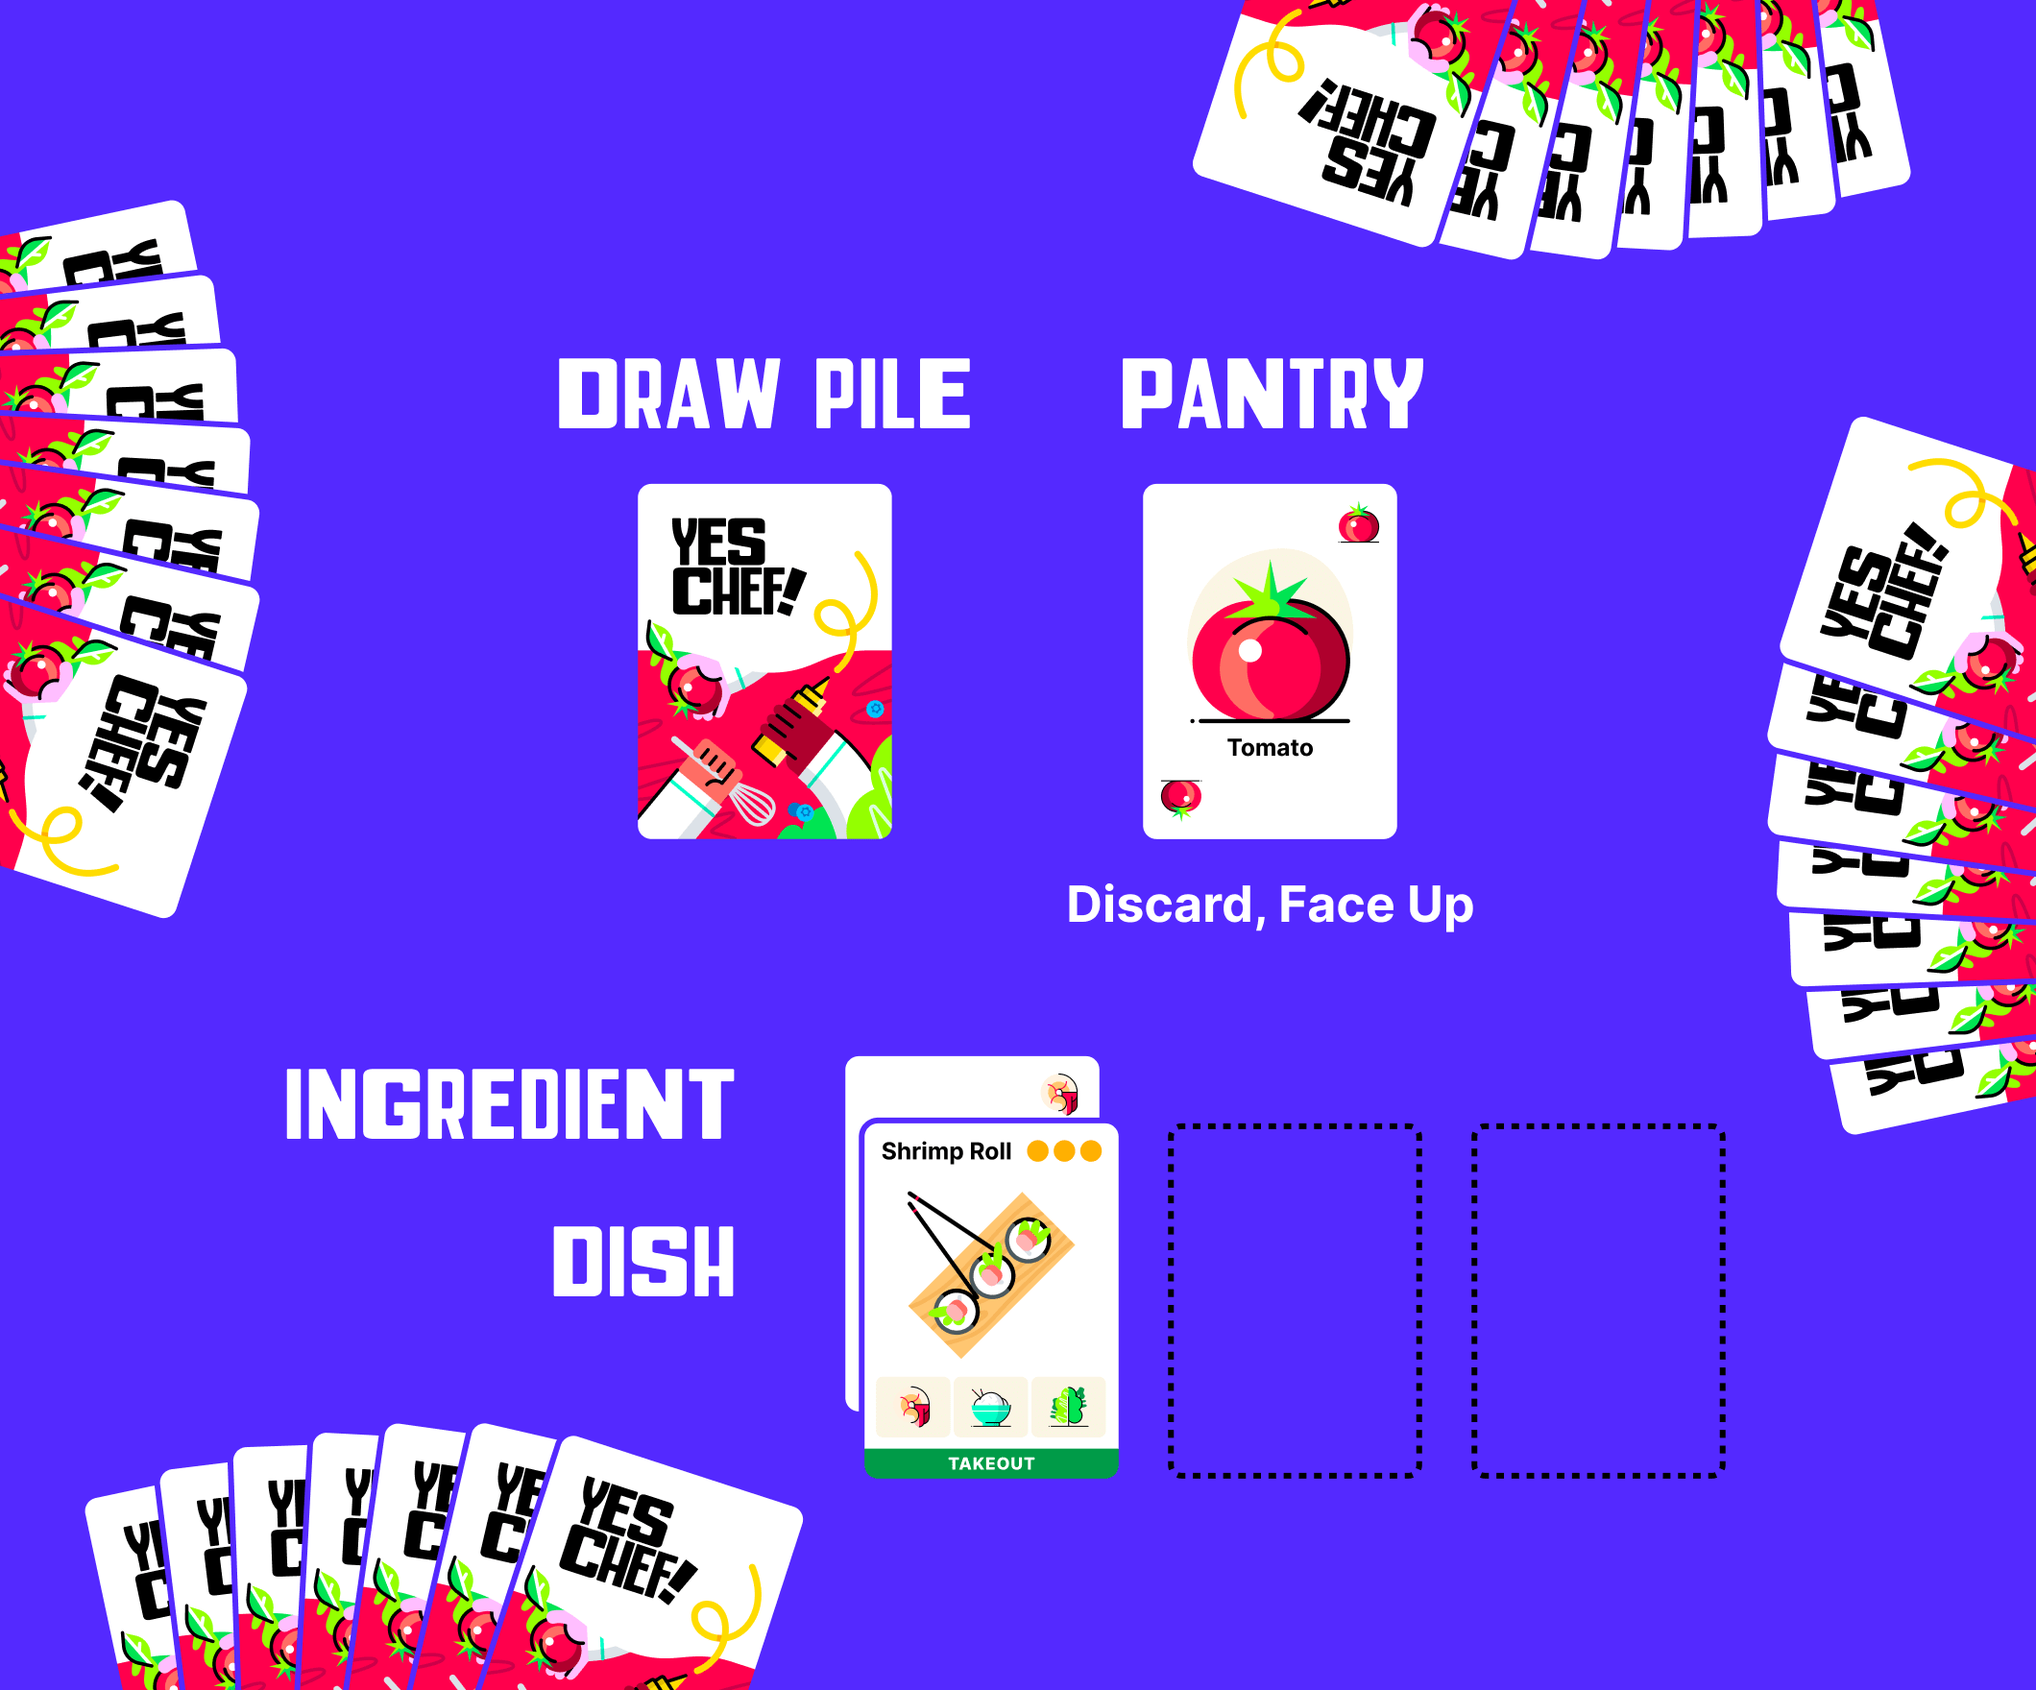
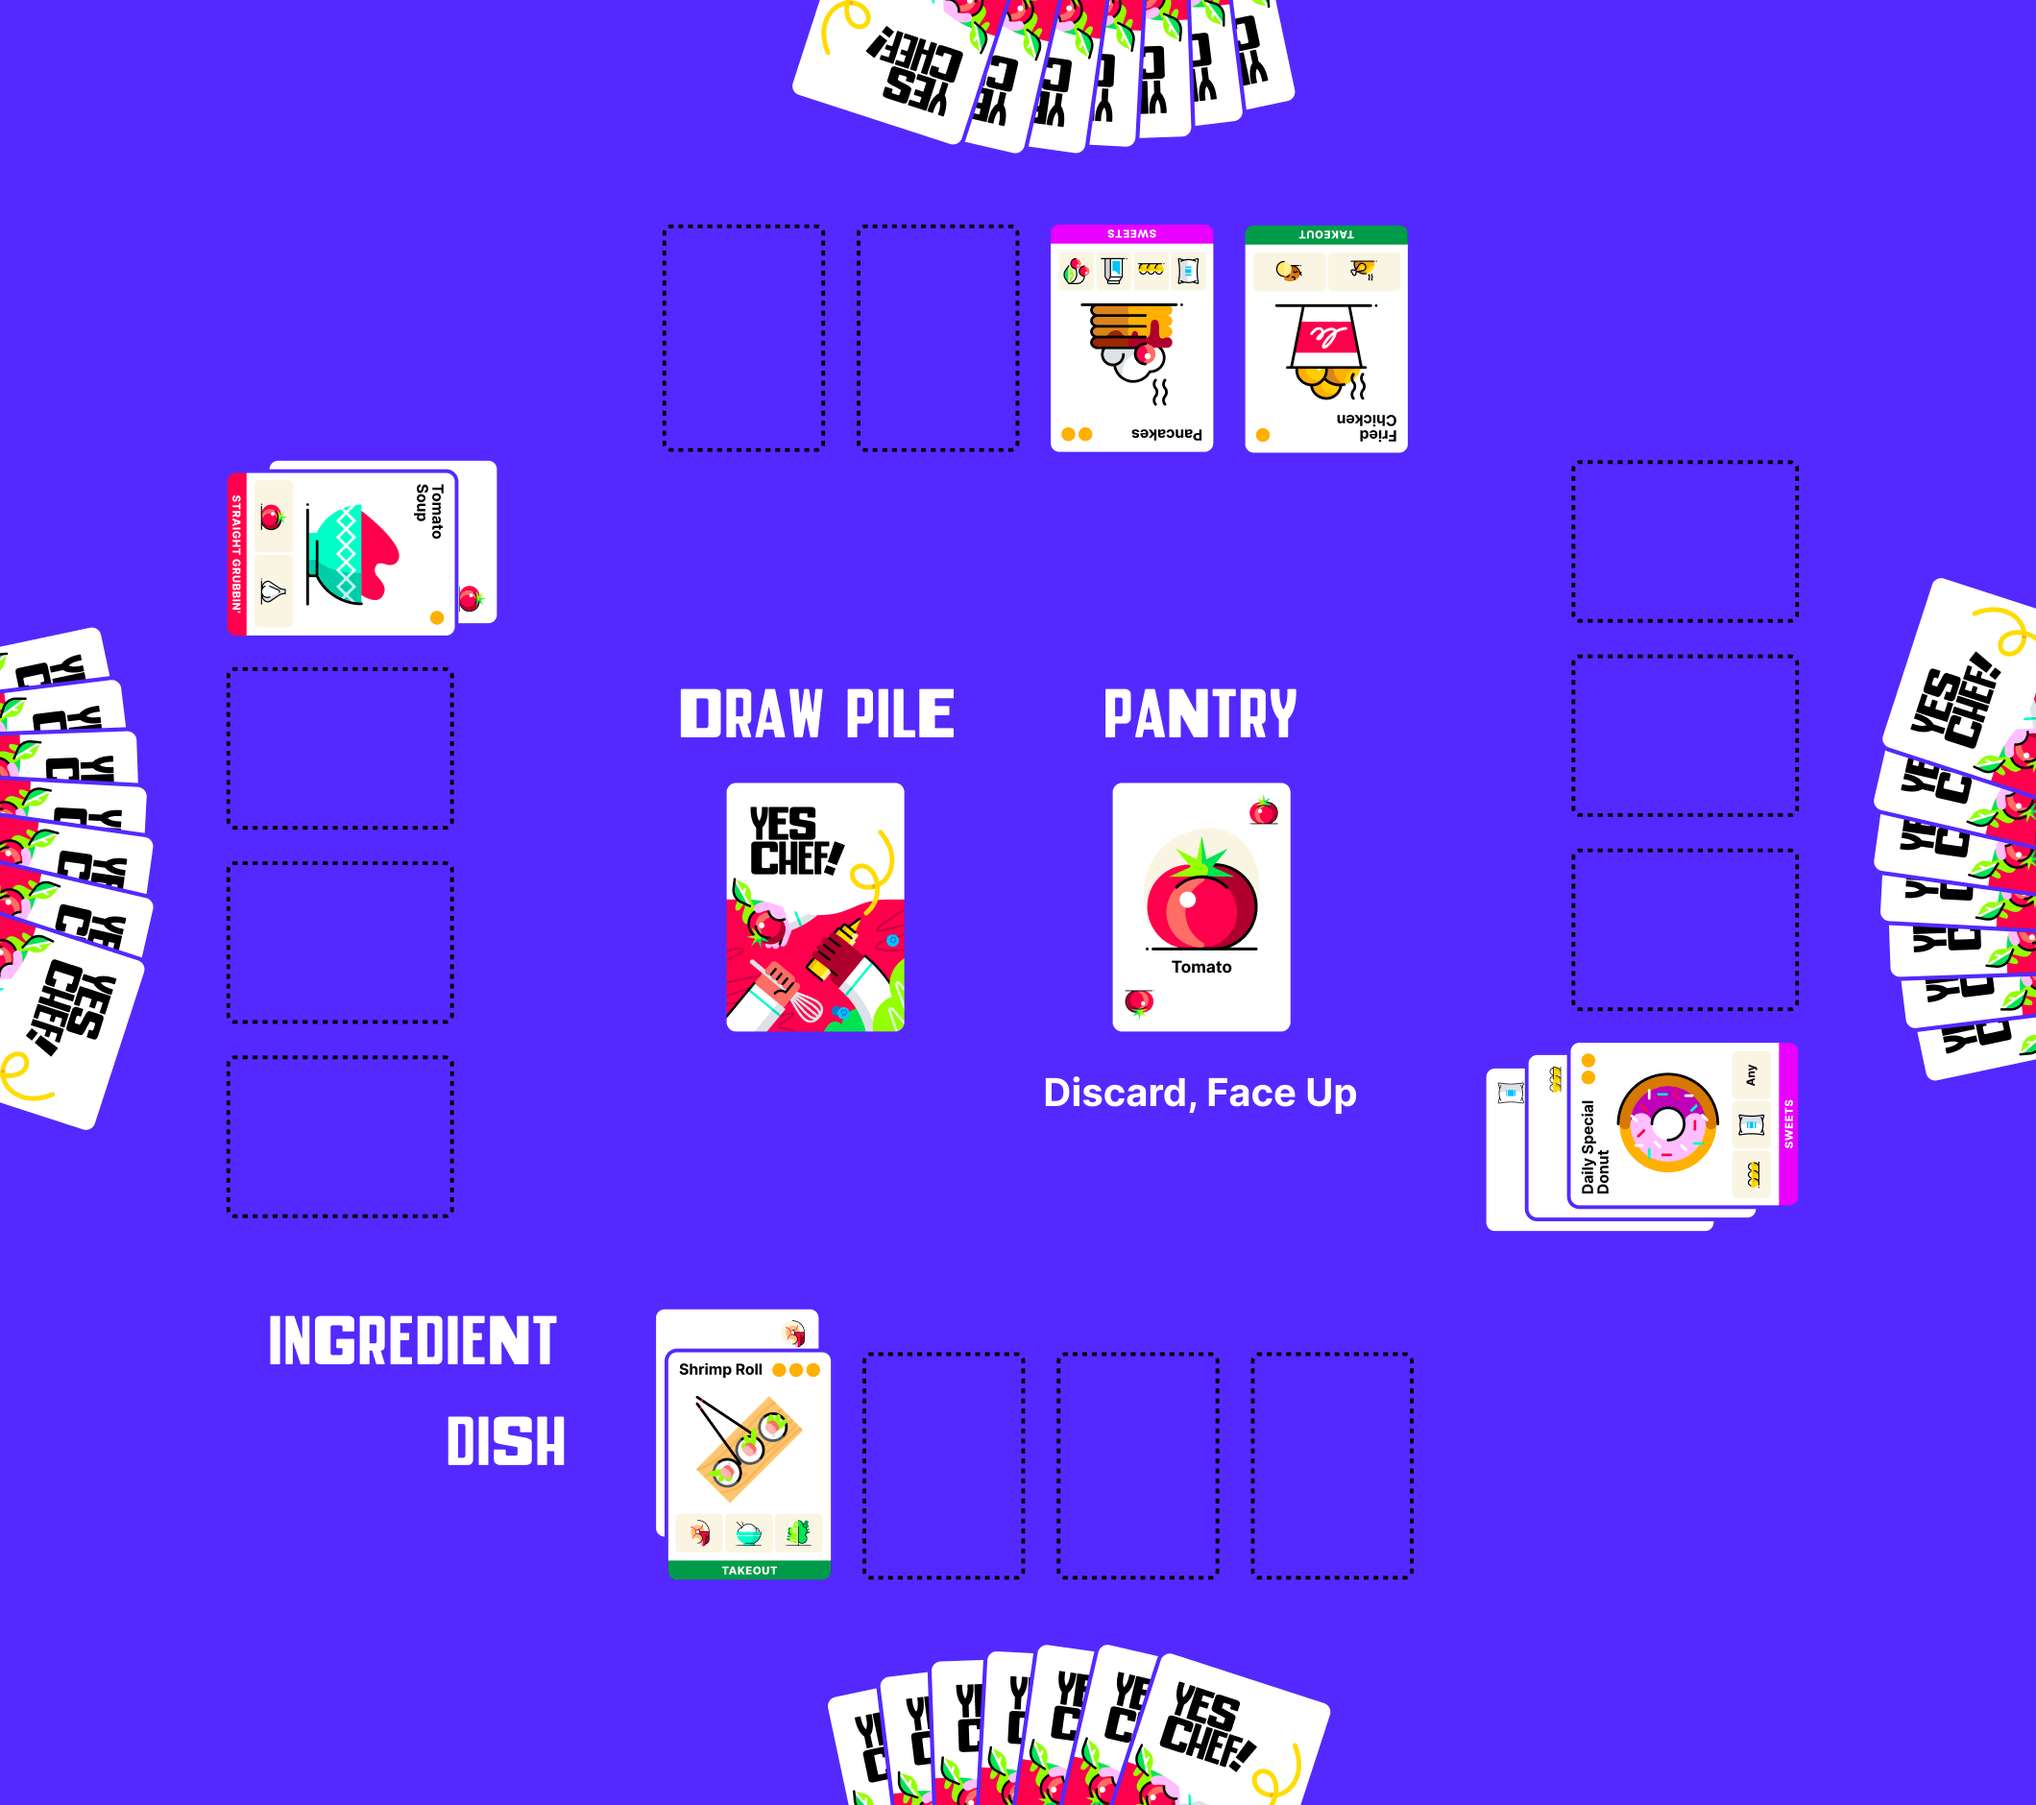
RULES

diff --git a/yes-chef/rules.html b/yes-chef/rules.html
@@ -49,11 +49,11 @@
 
     <h2 id="setup" class="font-semibold text-4xl mb-4">Basic Game Setup</h2>
 
-    <p class="">Like a lot of card games, players gather around a central draw pile and a discard pile (called <strong>The Pantry</strong>). Something like this:</p>
+    <p class="">Like a lot of card games, players gather around a central draw pile and discard pile (called <strong>The Pantry</strong>). Something like this:</p>
 
-    <img class="rounded-2xl mb-8" src="images/instructions-table-layout.png" alt="">
+    <img class="md:rounded-2xl mb-8 max-w-[120%] -ml-[10%] md:max-w-[130%] md:-ml-[15%]" src="images/instructions-table-layout.png" alt="">
 
-    <p>Each chef works to collect and complete <strong>dish cards</strong> to earn coins. You may play a dish card from your hand into the space in front of you, and immediately start assembling the required <strong>ingredient cards</strong> to complete the dish.</p>
+    <p>Each chef works to collect and complete <strong>Dish Cards</strong> to earn coins. You may play a Dish Card from your hand into the space in front of you, and immediately start assembling the required <strong>Ingredient Cards</strong> to complete the Dish.</p>
 
     <p class="p-6 border-yellow-300 border-2 shadow-[6px_6px_0px_0px_rgba(253,224,71,0.8)]"><strong>But watch out!</strong> Other chefs are out to spoil you, and they can play <strong>action cards</strong> onto any dish in progress.</p> 
 
@@ -92,7 +92,7 @@
 
     <p>At the start of your turn, draw up to 7 cards into your hand. If the pantry pile is available, you may also draw from that pile.</p>
 
-    <p class="p-6 border-yellow-300 border-2 shadow-[6px_6px_0px_0px_rgba(253,224,71,0.8)]"><strong>Be smart!</strong> Draw your cards from the draw pile or pantry pile one-at-a-time, you never know if you'll pull a card that will suddently make an ingredient in the pantry a must-have. Good chefs are versitile!</p>
+    <p class="p-6 border-yellow-300 border-2 shadow-[6px_6px_0px_0px_rgba(253,224,71,0.8)]"><strong>Be smart!</strong> Draw your cards from the draw pile or pantry pile one-at-a-time, you never know if you'll pull a card that will suddenly make an ingredient in the pantry a must-have. Good chefs are versitile!</p>
 
     <p><strong>Always</strong> start your turn with 7 cards.</p>
 
@@ -142,7 +142,70 @@
 
     <h2 id="action" class="font-semibold text-4xl mb-4">Action Cards</h2>
 
-    <p>Complete info about special cards coming soon...</p>
+    <p class="mb-8">Use <strong>Action Cards</strong> to turn up the heat! Target other Chefs, give yourself more Coin, block to play defense. When an <strong>Action Card</strong> is played, discard it to the bottom of <strong>The Pantry</strong> card pile.</p>
+
+    <div class="action-card flex gap-8 mb-8">
+      <div class="w-1/4">
+      <img src="images/deck/hi-rez/094-action-cancel.png" alt="" class="drop-shadow-lg">
+      </div>
+      <div class="w-3/4">
+        Instantly play a <strong>Not So Fast</strong> card during anyone's turn to cancel the effect of any other Action Card. Stop another player from taking a coin from your Dish, or stop another player from dropping a Dish.
+      </div>
+    </div>
+
+    <div class="action-card flex gap-8 mb-8">
+      <div class="w-1/4">
+      <img src="images/deck/hi-rez/096-action-dropped-dish.png" alt="" class="drop-shadow-lg">
+      </div>
+      <div class="w-3/4">
+        Instantly play a <strong>Dropped Dish</strong> card during anyone's turn to remove any in-progress <strong>Dish</strong> from play. If a <strong>Dish</strong> is complete, it CANNOT be dropped. 
+      </div>
+    </div>
+
+    <div class="action-card flex gap-8 mb-8">
+      <div class="w-1/4">
+      <img src="images/deck/hi-rez/093-action-minus.png" alt="" class="drop-shadow-lg">
+      </div>
+      <div class="w-3/4">
+        Instantly play a <strong>Minus One Coin</strong> card during anyone's turn onto any <strong>Dish</strong> card. If a <strong>Dish</strong> is complete, it CANNOT be targeted by Action Cards. 
+      </div>
+    </div>
+
+    <div class="action-card flex gap-8 mb-8">
+      <div class="w-1/4">
+      <img src="images/deck/hi-rez/102-action-chef-peek.png" alt="" class="drop-shadow-lg">
+      </div>
+      <div class="w-3/4">
+        During your turn, play a <strong>Peek</strong> card to look through and take any cards in in the top five of either the <strong>Draw Pile</strong> or the <strong>Pantry</strong>.
+      </div>
+    </div>
+
+    <div class="action-card flex gap-8 mb-8">
+      <div class="w-1/4">
+      <img src="images/deck/hi-rez/082-action-coin.png" alt="" class="drop-shadow-lg">
+      </div>
+      <div class="w-3/4">
+        During your turn, play a <strong>+1 Coin</strong> card to add a coin to any active <strong>Dish</strong>. You can play a coin on your Dish or on a Dish from any other Chef.
+      </div>
+    </div>
+
+    <div class="action-card flex gap-8 mb-8">
+      <div class="w-1/4">
+      <img src="images/deck/hi-rez/098-action-switch.png" alt="" class="drop-shadow-lg">
+      </div>
+      <div class="w-3/4">
+        During your turn, play a <strong>Switch</strong> aloingside any <strong>Ingredient</strong> to substitute for any other Ingredient. For example, if recipe calls for Sugar, you can play Swap + Shrimp instead.
+      </div>
+    </div>
+
+    <div class="action-card flex gap-8 mb-8">
+      <div class="w-1/4">
+      <img src="images/deck/hi-rez/103-action-steal.png" alt="" class="drop-shadow-lg">
+      </div>
+      <div class="w-3/4">
+        During your turn, play a <strong>Raccoon</strong> card to steal a card, face down, from any other Chef. Discard the Raccoon at the bottom of the <strong>Pantry</strong>.
+      </div>
+    </div>
 
     <h2 id="gameplay" class="font-semibold text-4xl mb-4">Advanced Gameplay</h2>
 

diff --git a/yes-chef/css/main.css b/yes-chef/css/main.css
@@ -515,6 +515,9 @@ Ensure the default browser behavior of the `hidden` attribute.
 .mt-2 {
   margin-top: 0.5rem;
 }
+.-ml-\[10\%\] {
+  margin-left: -10%;
+}
 .mt-1 {
   margin-top: 0.25rem;
 }
@@ -569,6 +572,12 @@ Ensure the default browser behavior of the `hidden` attribute.
 .w-6 {
   width: 1.5rem;
 }
+.w-1\/4 {
+  width: 25%;
+}
+.w-3\/4 {
+  width: 75%;
+}
 .max-w-3xl {
   max-width: 48rem;
 }
@@ -580,6 +589,9 @@ Ensure the default browser behavior of the `hidden` attribute.
 }
 .max-w-2xl {
   max-width: 42rem;
+}
+.max-w-\[120\%\] {
+  max-width: 120%;
 }
 .grow {
   flex-grow: 1;
@@ -1240,6 +1252,10 @@ footer{
     left: 0px;
   }
 
+  .md\:-ml-\[15\%\] {
+    margin-left: -15%;
+  }
+
   .md\:block {
     display: block;
   }
@@ -1284,6 +1300,10 @@ footer{
     width: 25%;
   }
 
+  .md\:max-w-\[130\%\] {
+    max-width: 130%;
+  }
+
   .md\:items-center {
     align-items: center;
   }
@@ -1294,6 +1314,10 @@ footer{
 
   .md\:overflow-visible {
     overflow: visible;
+  }
+
+  .md\:rounded-2xl {
+    border-radius: 1rem;
   }
 
   .md\:px-24 {
